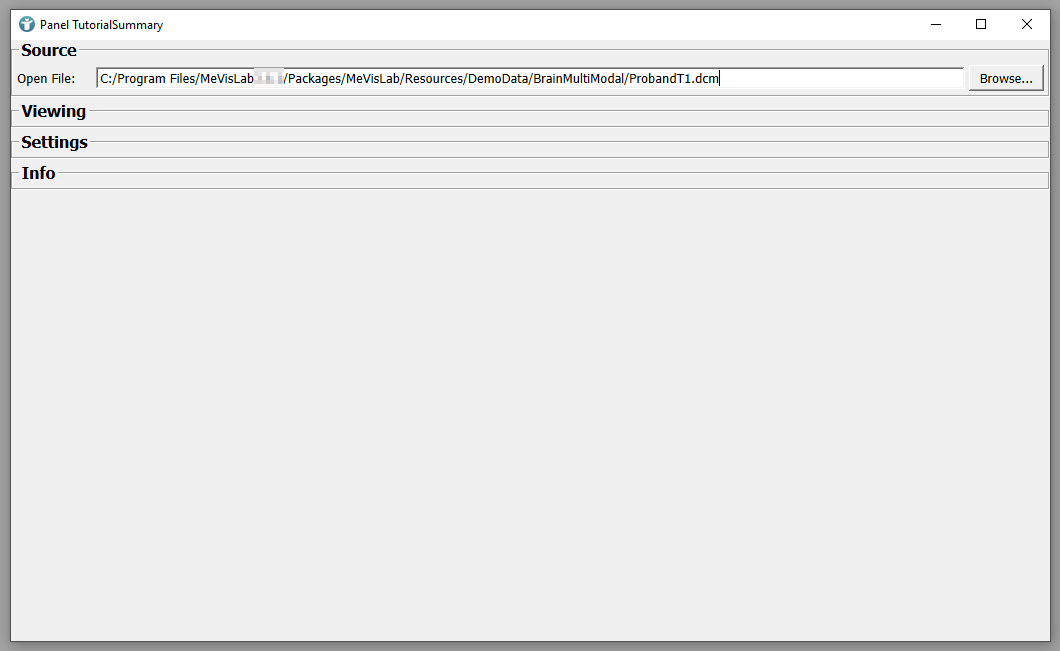
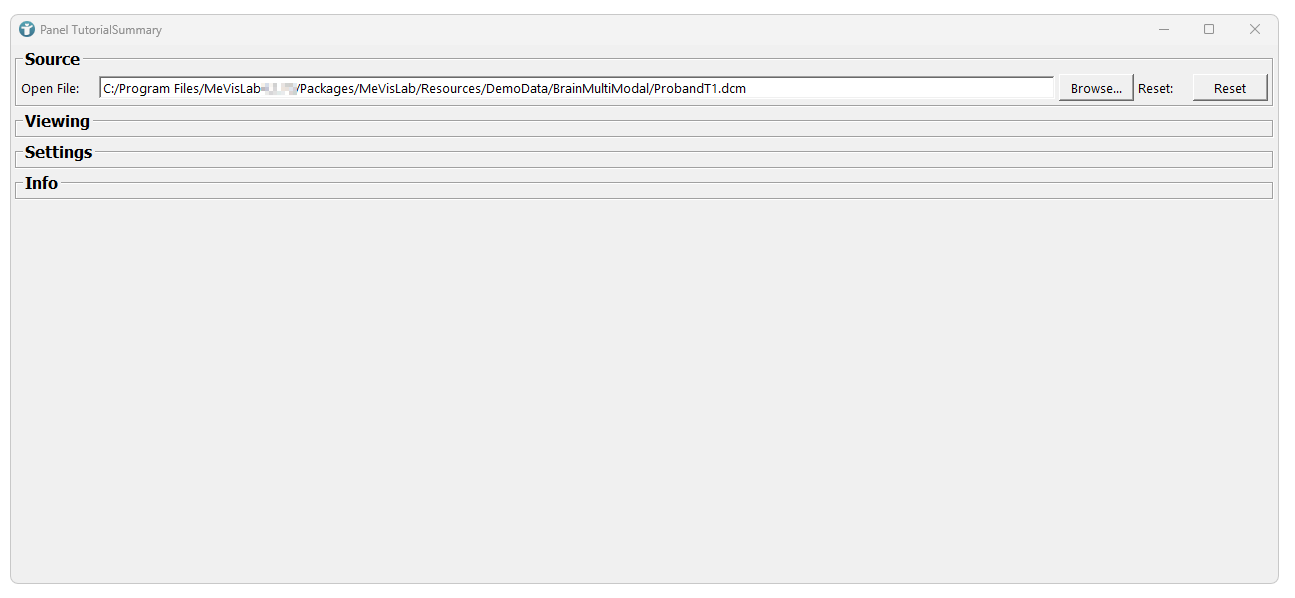
MLAB-6489: recreated screenshots with margin; added an example how the GUI would look without margin

Changed region(s): [[0.0, 0.0, 1.0, 1.0]]

diff --git a/mevislab.github.io/content/tutorials/basicmechanisms/macromodules/guidesign.md b/mevislab.github.io/content/tutorials/basicmechanisms/macromodules/guidesign.md
@@ -81,10 +81,6 @@ In the *Parameters* section, you can define *fields* of your macro module. These
 ### Module Panel Layout
 To create your own user interface, we need to create a {{< docuLinks "/Resources/Documentation/Publish/SDK/MDLReference/index.html#mdl_Window" "Window" >}}. A window is one of the layout elements that exist in MDL. These layout elements are called {{< docuLinks "/Resources/Documentation/Publish/SDK/MDLReference/index.html#Controls" "controls" >}}. The curled brackets define the window section, in which you can define properties of the window and insert further controls like a {{< docuLinks "/Resources/Documentation/Publish/SDK/MDLReference/index.html#mdl_Box" "Box" >}}.
 
-{{<alert class="info" caption="Info">}}
-We use *Category* as the top-level layouter in the *Window* to give the inner content a small margin. Otherwise, the controls touch the border of the window and look unappealing.
-{{</alert>}}
-
 Initially, we call the window *MyWindowTitle*, which can be used to reference this window.
 
 Double-clicking {{< mousebutton "left" >}} on your module now opens your first self-developed user interface.
@@ -117,6 +113,12 @@ Window MyWindowName {
 {{</highlight>}}
 
 ![Module panel](images/tutorials/basicmechanics/ModulePanel.png "Module panel")
+
+{{<alert class="info" caption="Info">}}
+We use *Category* as the top-level layouter in the *Window* to give the inner content a small margin. Otherwise, the controls touch the border of the window and look unappealing.
+{{</alert>}}
+
+![Module panel without margin](images/tutorials/basicmechanics/ModulePanel_noMargin.png "Module panel without margin")
 
 You can define different properties of your control. For a window, you can, for example, define a title, or whether the
 window should be shown in full screen (*fullscreen = Yes*).

diff --git a/mevislab.github.io/content/tutorials/summary/summary3.md b/mevislab.github.io/content/tutorials/summary/summary3.md
@@ -70,14 +70,16 @@ Window {
 ```
 {{</highlight>}}
 
-{{<alert class="info" caption="Info">}}
-We use *Category* as the top-level layouter in the *Window* to give the inner content a small margin. Otherwise, the controls touch the border of the window and look unappealing.{{</alert>}}
-
 You can preview your initial layout in MeVisLab by double-clicking your module {{< mousebutton "left" >}}.
 
 ![Initial window layout](images/tutorials/summary/Example3_1.png "Initial window layout")
 
 You can see the four vertical aligned parts as defined in the *.script* file. Now, we are going to add the content of the boxes.
+
+{{<alert class="info" caption="Info">}}
+We use *Category* as the top-level layouter in the *Window* to give the inner content a small margin. Otherwise, the controls touch the border of the window and look unappealing.{{</alert>}}
+
+![Initial window layout without margin](images/tutorials/summary/Example3_1_noMargin.png "Initial window layout without margin")
 
 {{<alert class="info" caption="Additional Info">}}
 An overview over the existing layout elements in MeVisLab Definition Language (MDL) can be found {{< docuLinks "/Resources/Documentation/Publish/SDK/MDLReference/index.html#N11695" "here" >}}
